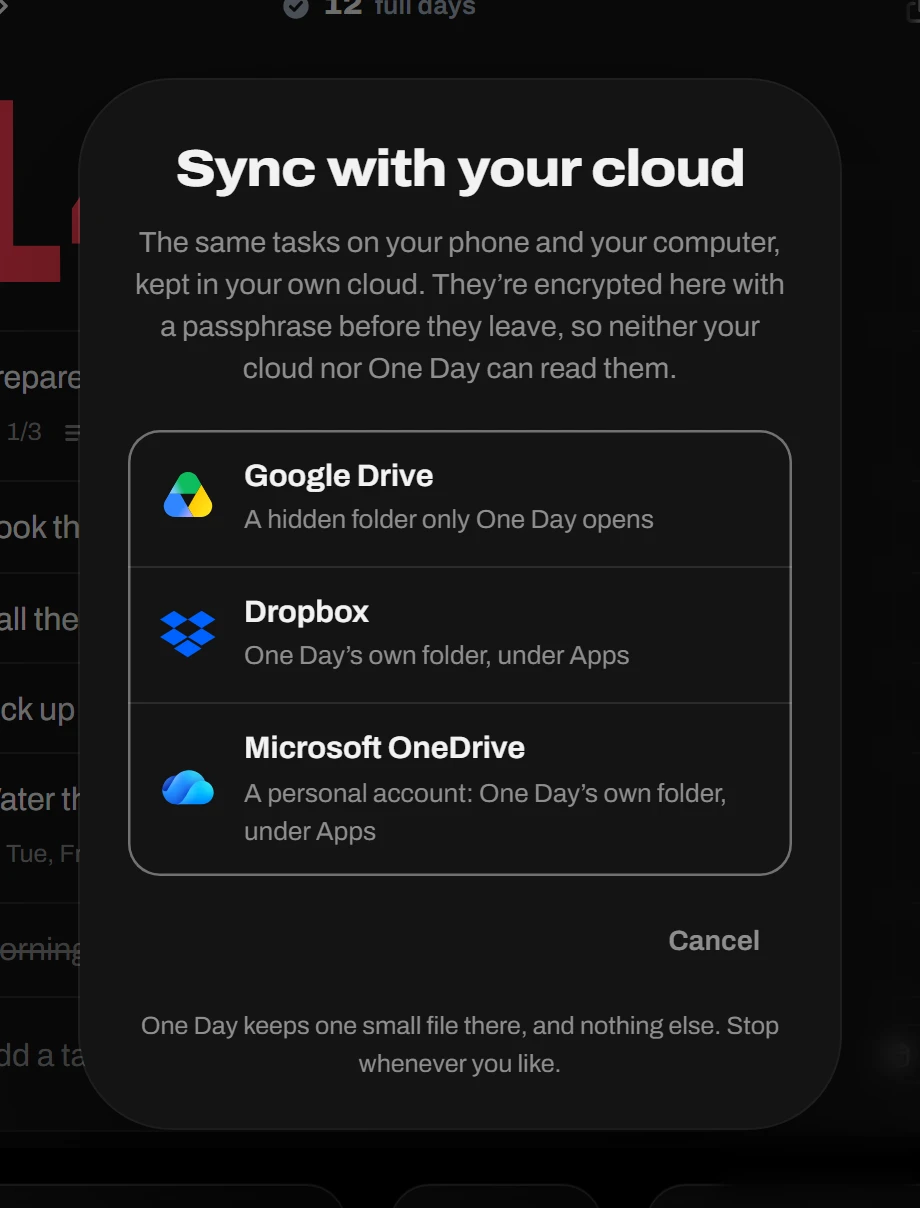
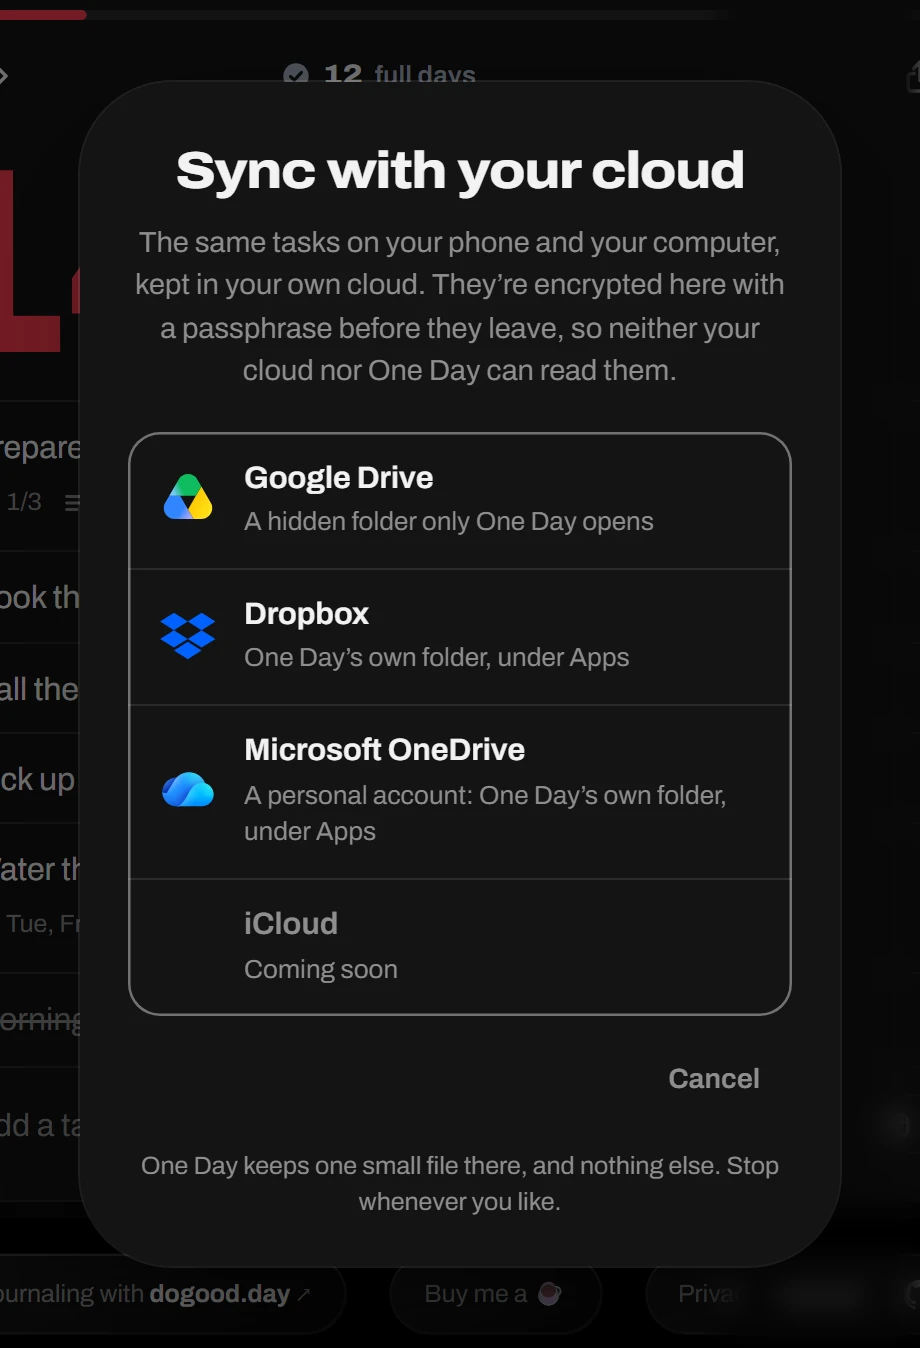
Sync: iCloud in the list of clouds, coming soon
iCloud needs an App Store app first: Apple lets a website use it only as the
web version of one. Until then the list names it, last and disabled, with no
logo, since Apple lets no one else show its icons. The guide, the README and
llms.txt say it is coming, and the guide's picture of the list is taken again.

diff --git a/public/guide/index.html b/public/guide/index.html
@@ -706,12 +706,13 @@ Nothing is sent anywhere: the tasks stay in the link until I open it and confirm
               <b>Google Drive</b>, <b>Dropbox</b> or <b>OneDrive</b>, one at a time. There is still no account and no server:
               each device talks to your cloud directly, and your tasks are <b>encrypted with a passphrase</b> before they
               leave it. Your cloud sees one file and when it changes, never a task, and nothing reaches One Day.
+              <b>iCloud</b> is coming soon.
             </p>
             <figure class="shot pair">
               <div class="row">
                 <div>
-                  <img class="l" src="shots/sync-pick-light.webp" width="920" height="1208" alt="Sync with your cloud: the same tasks on your phone and your computer, encrypted before they leave, with Google Drive, Dropbox and Microsoft OneDrive to pick from, each with its logo." decoding="async" loading="lazy" />
-                  <img class="d" src="shots/sync-pick-dark.webp" width="920" height="1208" alt="Sync with your cloud: the same tasks on your phone and your computer, encrypted before they leave, with Google Drive, Dropbox and Microsoft OneDrive to pick from, each with its logo." decoding="async" loading="lazy" />
+                  <img class="l" src="shots/sync-pick-light.webp" width="920" height="1348" alt="Sync with your cloud: the same tasks on your phone and your computer, encrypted before they leave, with Google Drive, Dropbox and Microsoft OneDrive to pick from, each with its logo, and iCloud, coming soon." decoding="async" loading="lazy" />
+                  <img class="d" src="shots/sync-pick-dark.webp" width="920" height="1348" alt="Sync with your cloud: the same tasks on your phone and your computer, encrypted before they leave, with Google Drive, Dropbox and Microsoft OneDrive to pick from, each with its logo, and iCloud, coming soon." decoding="async" loading="lazy" />
                 </div>
                 <div>
                   <img class="l" src="shots/sync-on-light.webp" width="920" height="1024" alt="Sync is on: up to date, synced at 09:41, with Sync now, what Google sees, how to add another device, then Stop syncing and Done." decoding="async" loading="lazy" />

diff --git a/public/app.js b/public/app.js
@@ -10300,13 +10300,17 @@ try {
       t = 'Sync with your cloud';
       sub = 'The same tasks on your phone and your computer, kept in your own cloud. They’re encrypted here with a passphrase before they leave, so neither your cloud nor One Day can read them.';
       hint = 'One Day keeps one small file there, and nothing else. Stop whenever you like.';
-      SY.syCh.innerHTML = Object.keys(CL)
-        .map(k => {
-          const on = !!CLOUD_IDS[k],
-            logo = CL[k].logo ? `<img src="${CL[k].logo}" alt="" width="28" height="28" decoding="async">` : '';
-          return `<button type="button" class="syc" data-c="${k}"${on ? '' : ' disabled'}><i class="syl syl-${k}" aria-hidden="true">${logo}</i><b>${esc(CL[k].label || CL[k].name)}</b><span>${esc(on ? CL[k].sub : 'Not set up yet')}</span></button>`;
-        })
-        .join('');
+      SY.syCh.innerHTML =
+        Object.keys(CL)
+          .map(k => {
+            const on = !!CLOUD_IDS[k],
+              logo = CL[k].logo ? `<img src="${CL[k].logo}" alt="" width="28" height="28" decoding="async">` : '';
+            return `<button type="button" class="syc" data-c="${k}"${on ? '' : ' disabled'}><i class="syl syl-${k}" aria-hidden="true">${logo}</i><b>${esc(CL[k].label || CL[k].name)}</b><span>${esc(on ? CL[k].sub : 'Not set up yet')}</span></button>`;
+          })
+          .join('') +
+        // iCloud is on its way: Apple lets a website use it only as the web version of an App Store app. Until then it is
+        // named and can't be chosen, with no logo, since Apple lets no one else show its icons.
+        '<button type="button" class="syc" data-c="icloud" disabled><i class="syl" aria-hidden="true"></i><b>iCloud</b><span>Coming soon</span></button>';
     } else if (st === 'wait') {
       t = `Signing in to ${n}`;
       sub = `Finish in the window that opened. ${CL[c].co} asks you to let One Day use its own folder there, and nothing else.`;

diff --git a/public/sw.js b/public/sw.js
@@ -1,7 +1,7 @@
 /* One Day service worker: makes the app open instantly and work offline, even from a cold start.
    It only caches the app's own files, and its guide. It never sees your tasks, which live in localStorage.
    Sync's calls to your cloud go to other sites: it lets them by untouched and keeps nothing of them. */
-const CACHE = 'one-day-v67';
+const CACHE = 'one-day-v68';
 const SHELL = [
   './',
   './app.css',

diff --git a/README.md b/README.md
@@ -29,7 +29,7 @@ One Day is a single-page web app with no framework, no runtime dependencies, no 
 - **Leftovers.** Unfinished tasks from earlier days can be brought to today in one click.
 - **Full days.** Tick the last task of a day and its circle rises into a big check over the day, the count under it going up by one, then it all folds into the number in the middle of the bar: the full days, those whose tasks were all ticked. It is counted from your tasks, and a day you miss takes nothing away: there is no streak to break. A day gone by whose unfinished tasks you carried on (Bring here, or a task's arrow) keeps a mark and doesn't count; putting a task off on its own day, or deleting it, doesn't count against the day. Untick or undo, and the day leaves the count. In a narrower window, where the time sits in the bar, the count takes its place for five seconds now and then. With _Reduce motion_ on, the check and the count just show for a moment, without moving, and a screen reader hears it.
 - **Tags.** Type `#something` in a task. The filter at the right of the date shows only the tasks with one tag, and the dot beside a tag gives it a colour, worn wherever it shows.
-- **Sync with your own cloud, if you want.** The cloud beside the lock (_Sync with your cloud_) keeps the same tasks on your phone and your computer through your own Google Drive, Dropbox or OneDrive. There is no account and no server of ours: the browser talks to your cloud directly, and your tasks are encrypted with a passphrase before they leave it. Two devices that changed the same day are merged task by task, offline changes go up once you are back, and a cloud beside the lock says how it is going (see [Privacy](#privacy) and [Security](#security)).
+- **Sync with your own cloud, if you want.** The cloud beside the lock (_Sync with your cloud_) keeps the same tasks on your phone and your computer through your own Google Drive, Dropbox or OneDrive (iCloud is coming soon). There is no account and no server of ours: the browser talks to your cloud directly, and your tasks are encrypted with a passphrase before they leave it. Two devices that changed the same day are merged task by task, offline changes go up once you are back, and a cloud beside the lock says how it is going (see [Privacy](#privacy) and [Security](#security)).
 - **A lock, if you want one.** _Protect with a passphrase_ (the lock at the top right) encrypts your tasks in the browser; search before you type (More on a phone) then has what changes it or turns it off. One Day then asks for the passphrase when it opens, after five minutes away, or as soon as you press <kbd>L</kbd>. Where the device has it, fingerprint, face or the device PIN unlocks it too (setting it up asks for the passphrase).
 - **On a phone**, a bottom bar puts search, the timer, a big add button, sending the day and the rest under your thumb. The add button opens the composer as a sheet above the keyboard, and search opens as a drawer over the day. The phone's back button closes what is open (a sheet, the drawer, a popover, an open task) before it leaves the app.
 - **Light and dark**, following your system, or switched in one click (the sun and moon at the top right). **Works offline** once installed, and installs as an app.
